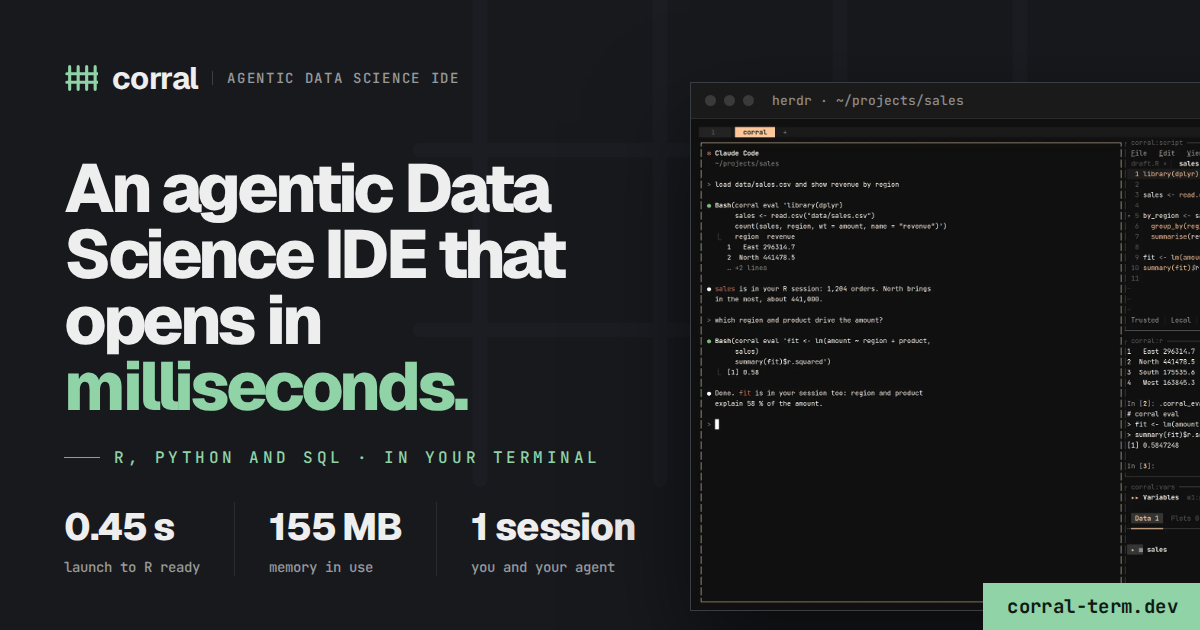
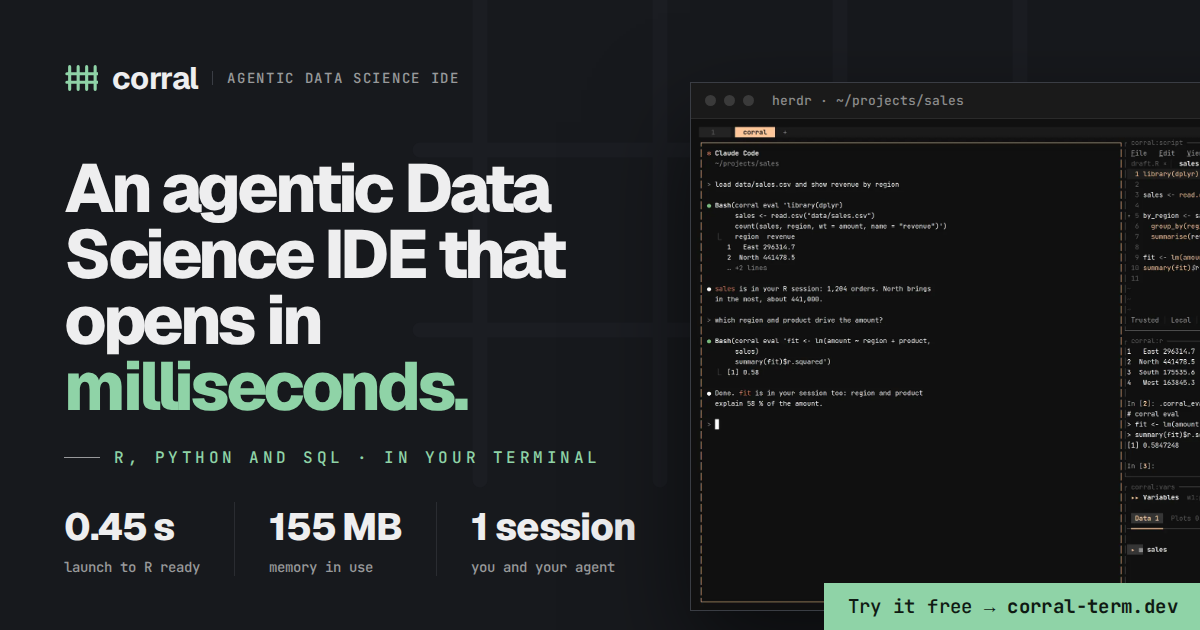
Site: a call to action on the link preview image
The badge says "Try it free → corral-term.dev" instead of the bare
address.

Changed region(s): [[0.6783, 0.9048, 0.8325, 1.0]]

diff --git a/site/assets/og.html b/site/assets/og.html
@@ -49,6 +49,7 @@
     position: absolute; right: 0; bottom: 0; padding: 14px 22px 14px 24px; background: #8fd3a7; color: #0f1a13;
     font: 700 19px/1 "JetBrains Mono", monospace; letter-spacing: 0.02em;
   }
+  .url span { font-weight: 500; }
 </style>
 </head>
 <body>
@@ -70,6 +71,6 @@
     <div class="bar"><i></i><i></i><i></i><span>herdr · ~/projects/sales</span></div>
     <img src="shots/hero.webp" alt="">
   </figure>
-  <div class="url">corral-term.dev</div>
+  <div class="url"><span>Try it free →</span> corral-term.dev</div>
 </body>
 </html>
